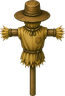
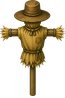
fix(map): 校正場實測後調整 5 個素材的擋人範圍，碰撞支援 16px 精度
John 實機走過 MZ 校正場後回報的 5 項調整。其中兩項要求「高 16、寬 32」＝
半格，整格 footprint 表達不了，故擴充碰撞管線到 16px 子格精度。

機制：meta.json 新增 collision_px:[w,h]（像素，預設 footprint×32），錨點＝
footprint 底邊中央。blueprint_to_paths.gd 改以 16 子格計算遮蔽：整格蓋滿→
不刷 PathPaint32（全擋）；只蓋一部分→改刷 PathPaint16 於仍可走的子格，
invert_paths.gd 既有的「部分可走」邏輯就會把未刷子格做成 16px 牆。

為什麼分兩種改法：改 footprint 會連帶移動既有擺放（錨點是 footprint 底邊
中央），所以已被擺過的素材用 collision_px，沒被擺過的才直接改 footprint。

- tree_m5_road_a（已擺 6 次）：collision_px [64,32]，左右各多 16。
- street_lamp_iron_a（14 次）：collision_px [32,16]，圖底補 2px 透明容錯。
- scarecrow_field_a（1 次）：collision_px [32,16]，圖底補 2px 容錯。
- fence_wood_gate_a／fence_wood_straight_a（0 次）：footprint 2×1 → 4×1。

驗證：校正場重導後「整格可走 1493／部分可走 4／擋 103」——4 個部分格正是
樹的左右兩半＋路燈＋稻草人；nfr_a 重導後 6 棵樹各佔 2 個部分格，連通驗證
通過；smoke 41/0。Godot 端確認讀到補邊後的新尺寸。

註：Town 標了 props_collide_in_scene（碰撞來自場景內 76 個 StaticBody2D、
不走 footprint 管線），故本次校正對 Town 無效。要讓 Town 也吃到素材層級
規則，得另外把它切換到 footprint 管線（TASKS/22 範圍）。

diff --git a/tools/prop_catalog.py b/tools/prop_catalog.py
@@ -37,6 +37,9 @@ def prop_catalog(assets_root: Path):
                 # 顯示用旗標（真相源＝素材庫 meta.json，GDScript 也直接讀那份，不寫進 map-def）
                 "layer": str(meta.get("layer", "object")),        # "ground"＝平貼地面、build_scenes.gd 掛 GroundProps
                 "walkable": meta.get("walkable", False) is True,  # True＝踩得過去、blueprint_to_paths.gd 不生碰撞
+                # 實際擋人範圍（像素，可細到 16）；預設＝footprint×32。錨點＝footprint 底邊中央。
+                "collision_px": [int(v) for v in meta["collision_px"]] if isinstance(meta.get("collision_px"), list)
+                                else [footprint[0] * 32, footprint[1] * 32],
                 "preview": str(preview.relative_to(assets_root)).replace("\\", "/"),
                 "render": str(render.relative_to(assets_root)).replace("\\", "/"),
             })

diff --git a/docs/pipeline/world_object_art/遮擋物件資產架構.md b/docs/pipeline/world_object_art/遮擋物件資產架構.md
@@ -29,6 +29,16 @@
 
 **擺放層要跟著分**：`layer: "ground"` 的物件（農田）放在 `YSort` **之外**、`Background` 之後的 `GroundProps` 節點——放進 `YSort` 會依 y 排序遮住站在上面的玩家。其餘高物件一律進 `YSort`，與玩家同一排序系統。
 
+**`collision_px`＝擋人範圍，可細到 16px（2026-08-19 校正場實測後新增）**：`footprint`（整格）是**擺放與錨定**單位；實際擋人的範圍由 `meta.json` 的 `collision_px:[w,h]`（像素）決定，預設＝`footprint×32`，以 footprint 底邊中央為錨點。整格被蓋滿→該格全擋；只蓋到一部分→`blueprint_to_paths.gd` 改刷 `PathPaint16` 於仍可走的子格，`invert_paths.gd` 把未刷的子格做成 16px 牆。
+
+| 素材 | footprint | collision_px | 為什麼 |
+|---|---|---|---|
+| `street_lamp_iron_a` | 1×1 | `[32,16]` | 燈柱只擋腳下半格；圖底另補 2px 透明容錯 |
+| `scarecrow_field_a` | 1×1 | `[32,16]` | 同上 |
+| `tree_m5_road_a` | 1×1 | `[64,32]` | 樹幹左右各再多 16px |
+
+改 `footprint` 會連帶移動既有擺放（錨點是 footprint 底邊中央），所以**已被擺放過的素材要調擋人範圍時用 `collision_px`**；沒被擺過的（如 `fence_wood_gate_a`／`fence_wood_straight_a` 由 2×1 改 4×1）才直接改 footprint。
+
 **素材層級規格＝碰撞的單一真相（2026-08-19）**：`meta.json` 的 `footprint`／`walkable`／`layer` 是**這個素材**的規格，不是某次擺放的屬性。map-def 不再逐筆複製 footprint；生成器一律回頭讀 meta.json，所以**同一物件在任何地圖都是同一套碰撞，校正一次即全域複用**。校正流程見 `TASKS/22`。
 
 **旗標怎麼被讀到（2026-08-19 實作）**：`walkable` 與 `layer` **兩個旗標都直接讀素材庫 `meta.json`**，不寫進 `map-def.json`——`blueprint_to_paths.gd` 的 `_prop_is_walkable()` 決定生不生碰撞，`build_scenes.gd` 的 `_prop_layer()` 決定掛 `GroundProps` 還是 `YSort`（map-def 該筆若有 `layer` 欄則優先，供個別例外覆寫）。好處是**改素材旗標不必回 map editor 存檔**；map editor 只負責顯示（不擋人＝綠虛框、地面層加註），不複製旗標。

diff --git a/CREDITS_素材授權.md b/CREDITS_素材授權.md
@@ -273,3 +273,5 @@ LPC 角色產生器圖層合成（CC-BY-SA/GPL），圖層配方參考 overworld
 - `assets/cg/cg_s1_bear.png`（亞倫救場）、`cg_s3_alan_fall.png`（亞倫斷後）、`cg_s6_curse.png`（黑水晶爆發／瑪琳中咒）、`cg_s6_report.png`（章末床邊）：**Gemini（gemini-2.5-flash-image）** 以 `menuart_alan/ludo/marin.png` 立繪為 `--ref-image` 參考生成，與角色立繪同款動漫賽璐璐風；經 John 驗收（2026-08-16）後去邊裁切 16:9 整合。原圖保存於 `assets-source/cg/`；提示詞作者 John／協作 Agent。規格見 `docs/design/事件演出規格.md`，由過場 `.tres` 的 `image` 欄位載入（dialogue_box 事件 CG 圖層顯示）。
 
 - **異變的魔影戰鬥圖重製（2026-08-16）**：`assets/battle/foe_demon_0..3.png`（91×128 透明四幀 idle 呼吸）為 **Gemini（gemini-2.5-flash-image）** image-to-image 生成（以 `portrait_shadow_demon.png` 為本體參考、依 `docs/pipeline/battle_art/prompts/descriptions/shadow_demon.md` v2 描述），經 John 驗收（seed D 案）後以色距鍵去背＋背景反混＋despill 產出；呼吸幀＝上身羽化位移＋煙尾底邊釘死＋胸口光核強弱（非整體縮放）。seed 原檔與四幀保存於 `assets-source/role/enemies/shadow_demon/`（`battle_seed_raw/alpha.png`、`combat_0..3.png`）；**匯入日起即錯置的舊 `foe_demon_*`（62×82 ＋ 36×40 兩套混用）備份於同目錄 `legacy/`**。提示詞作者 John／協作 Agent。
+
+- `assets/props/world/street/1x1/street_lamp_iron_a.png`、`assets/props/world/nature/1x1/scarecrow_field_a.png` **2026-08-19 微調**：John 實機校正後，於圖底各補 2px 透明容錯（僅加透明邊，未改繪製內容），畫布分別成為 22×103、65×98。

diff --git a/docs/pipeline/地圖製作流程.md b/docs/pipeline/地圖製作流程.md
@@ -161,6 +161,7 @@
 ```
 
 - `cell` 是 footprint 左上角的 `[x, y]` 格座標；`footprint` 是 `[寬, 高]` 格數。
+- **擋人範圍可細到 16px**：素材 `meta.json` 的 `collision_px:[w,h]`（預設＝footprint×32）決定實際擋人區，錨點＝footprint 底邊中央；只蓋住一部分的 32 格會改刷 `PathPaint16`（部分可走）。`footprint` 則是擺放／錨定單位。
 - **`footprint` 不寫在 map-def**（2026-08-19 起）：那是**素材層級**規格，真相在素材庫 `meta.json`。同一素材不論擺到哪張圖、擺幾次，碰撞規則都同一套——**校正一次，所有地圖重生成後自動生效**，不必逐張逐筆調。map-def 的每筆 prop 只記「哪個素材、放哪一格」（`id`／`type`／`cell`／`anchor`，必要時 `layer`／`asset` 覆寫）。
   - 生成器用 `type`＋`id` **掃描** `assets-source/props/world/<type>/*/<id>/meta.json` 找檔，不是拿 footprint 去拼路徑——所以校正時直接改 `meta.json` 的 footprint 即可，**不必搬素材目錄**（目錄名自此只是歸檔慣例，值以 meta.json 為準）。
 - `id` 與 `type` 推導正式素材路徑：`assets/props/world/<歸檔目錄>/<id>.png`；需要例外時才填 `asset` override。
